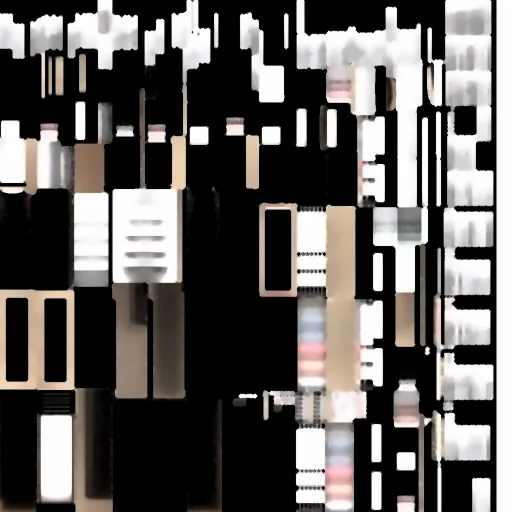
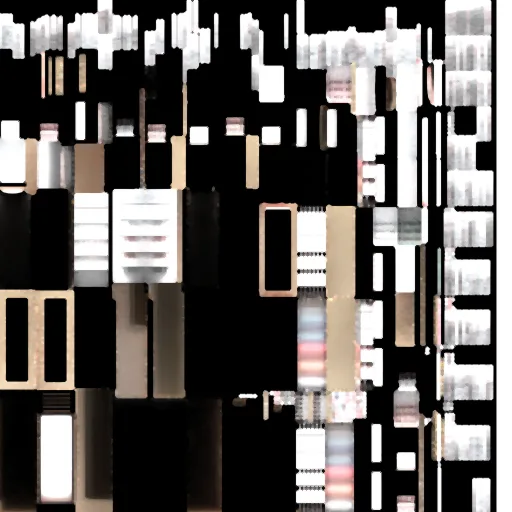
WIP: denoise OIDN nos lightmaps, embalagens sólidas, freezer com picolés e vista Sorvetes
Claude-Session: https://claude.ai/code/session_01CwP1brNtxaKT1mUQXiiAjA

diff --git a/src/scene/sala/ProjetoViewer.tsx b/src/scene/sala/ProjetoViewer.tsx
@@ -6,6 +6,7 @@ import { GLTFLoader } from "three/examples/jsm/loaders/GLTFLoader.js";
 import { MeshoptDecoder } from "three/examples/jsm/libs/meshopt_decoder.module.js";
 import { OrbitControls } from "three/examples/jsm/controls/OrbitControls.js";
 import { Reflector } from "three/examples/jsm/objects/Reflector.js";
+import { freezerPicoles } from "../Products";
 
 type V3 = [number, number, number];
 export type ProjetoPlan = {
@@ -20,6 +21,8 @@ export type ProjetoPlan = {
   backdrop?: string;
   /** fitas de LED visíveis (a luz que elas jogam já está no bake): segmento de a até b, cor quente ou fria */
   leds?: { a: V3; b: V3; cool?: boolean }[];
+  /** freezer horizontal para encher com os picolés Los Los do site */
+  freezer?: { x: [number, number]; z: [number, number]; y: number; rows: number; cols: number };
 };
 
 /** Fitas de LED acesas: barra fina brilhante + halo suave (soma de luz), como numa foto de loja à noite. */
@@ -257,11 +260,18 @@ export default function ProjetoViewer({ plan }: { plan: ProjetoPlan }) {
               if (done.has(mat)) continue;
               done.add(mat);
               const s = mat as THREE.MeshStandardMaterial;
-              // plástico das garrafas (água): translúcido mas visível, não some como vidro
+              // embalagens com PNG transparente (Milka, rótulos, logos): sólidas; só o fundo vazio do PNG some
+              if (s.map && s.transparent && !/vidro|glass|transparente|acrylic/i.test(s.name)) {
+                s.transparent = false;
+                s.opacity = 1;
+                s.alphaTest = 0.5;
+                s.depthWrite = true;
+              }
+              // plástico das garrafas (água): quase opaco, levemente azulado, com brilho
               if (/acrylic|^__auto_$/i.test(s.name)) {
-                s.color.set("#e6eef0");
+                s.color.set("#dfe9ee");
                 s.transparent = true;
-                s.opacity = 0.6;
+                s.opacity = 0.88;
                 s.roughness = 0.12;
                 s.metalness = 0;
                 s.envMapIntensity = 1.4;
@@ -291,6 +301,10 @@ export default function ProjetoViewer({ plan }: { plan: ProjetoPlan }) {
               // peças muito amassadas (sacos de carvão) se partem em centenas de pedacinhos no lightmap e saíam
               // riscadas: usam só a luz ambiente da própria loja
               if (/carv/i.test(s.name)) {
+                // a foto do saco não se encaixa no modelo amassado (ficava picotada): papel kraft liso
+                s.map = null;
+                s.color.set("#a8825a");
+                s.roughness = 0.85;
                 s.envMapIntensity = 1.1;
                 continue;
               }
@@ -309,6 +323,7 @@ export default function ProjetoViewer({ plan }: { plan: ProjetoPlan }) {
       scene.add(root);
 
       if (plan.leds) addLeds(scene, plan.leds);
+      if (plan.freezer) scene.add(await freezerPicoles(plan.freezer).catch(() => new THREE.Object3D()));
 
       if (plan.backdrop) {
         // lá fora: cilindro em volta da loja com a paisagem desfocada (como numa foto de interior)

diff --git a/src/scene/Products.tsx b/src/scene/Products.tsx
@@ -555,3 +555,45 @@ export function Products() {
 }
 
 const ZERO = new THREE.Matrix4().makeScale(0, 0, 0);
+
+/** Picolés Los Los (mesmos rótulos do site) deitados dentro de um freezer horizontal qualquer.
+ *  Usado na loja projetada das propostas (src/scene/sala). x: faixa da profundidade, z: do comprimento. */
+export async function freezerPicoles(f: { x: [number, number]; z: [number, number]; y: number; rows: number; cols: number }) {
+  const json = (await (await fetch(BASE + "produtos.json")).json()) as Record<string, number[]>;
+  const img = new Image();
+  img.decoding = "async";
+  img.src = BASE + "produtos.webp";
+  await img.decode();
+  const map = new THREE.Texture(img);
+  map.colorSpace = THREE.SRGBColorSpace;
+  map.anisotropy = 8;
+  map.needsUpdate = true;
+  const flavors = Object.keys(json).filter((k) => k.startsWith("picole_"));
+  const o = new THREE.Object3D();
+  let seed = 7;
+  const rnd = () => ((seed = (seed * 16807) % 2147483647) / 2147483647);
+  const tiles: number[] = [], mats: THREE.Matrix4[] = [];
+  const dx = (f.x[1] - f.x[0]) / f.rows, dz = (f.z[1] - f.z[0]) / f.cols;
+  let k = 0;
+  for (let col = 0; col < f.cols; col++)
+    for (let row = 0; row < f.rows; row++)
+      for (let side = 0; side < 2; side++) {
+        const uv = json[flavors[k++ % flavors.length]];
+        for (let layer = 0; layer < 3; layer++) {
+          // o picolé deitado ocupa 0,2 m a partir da posição, no sentido de −x
+          o.position.set(f.x[0] + dx * row + (dx + SHAPES.picole.h) / 2 + (rnd() - 0.5) * 0.01, f.y + layer * 0.028, f.z[0] + dz * (col + 0.5) + (side - 0.5) * dz * 0.5);
+          o.rotation.set(-Math.PI / 2 + 0.18 + (rnd() - 0.5) * 0.1, Math.PI / 2 + (rnd() - 0.5) * 0.12, 0, "YXZ");
+          o.updateMatrix();
+          mats.push(o.matrix.clone());
+          tiles.push(...uv);
+        }
+      }
+  const g = buildGeometry(SHAPES.picole);
+  g.setAttribute("aTile", new THREE.InstancedBufferAttribute(new Float32Array(tiles), 4));
+  g.setAttribute("aLit", new THREE.InstancedBufferAttribute(new Float32Array(mats.flatMap(() => [1, 1])), 2));
+  const mesh = new THREE.InstancedMesh(g, makeMaterial(map, true), mats.length);
+  mats.forEach((m, i) => mesh.setMatrixAt(i, m));
+  mesh.instanceMatrix.needsUpdate = true;
+  mesh.computeBoundingSphere();
+  return mesh;
+}

diff --git a/src/components/SalaSection.tsx b/src/components/SalaSection.tsx
@@ -25,6 +25,7 @@ const PLAN_V8K3: ProjetoPlan = {
   base: "/models/p/v8k3/",
   backdrop: "/images/p/janela.jpg",
   leds: LEDS,
+  freezer: { x: [0.12, 0.6], z: [2.62, 3.72], y: 0.62, rows: 2, cols: 7 },
   bounds: { x: [0.35, 5.0], z: [0.6, 5.35], h: 2.9 },
   floor: [[0, 0], [5.45, 0], [5.45, 5.7], [0, 5.7]],
   views: [
@@ -32,6 +33,7 @@ const PLAN_V8K3: ProjetoPlan = {
     { label: "Armário", position: [3.6, 1.55, 2.3], target: [3.6, 1.2, 0] },
     { label: "Geladeiras", position: [3.0, 1.55, 2.4], target: [0, 1.1, 1.5] },
     { label: "Gôndola", position: [1.3, 1.6, 4.6], target: [2.5, 0.8, 2.3] },
+    { label: "Sorvetes", position: [1.25, 1.75, 3.15], target: [0.35, 0.5, 3.15] },
     { label: "Totens", position: [1.4, 1.55, 3.4], target: [3.7, 0.75, 4.75] },
     { label: "Janela", position: [1.5, 1.6, 3.0], target: [5.3, 1.1, 2.6] },
   ],

diff --git a/scripts/blender/oidn_lightmaps.py b/scripts/blender/oidn_lightmaps.py
@@ -1,0 +1,73 @@
+"""
+Tira o granulado do bake com o denoiser da Intel (OIDN, o mesmo do Cycles), chamando a biblioteca que vem com o bpy
+(o compositor do Blender precisa de placa de vídeo; a biblioteca roda na CPU).
+Uso: python scripts/blender/oidn_lightmaps.py <pasta build>
+Lê <build>/lightmaps-raw/*.png (cópia sem filtro; criada a partir de lightmaps/ na primeira vez) e grava em lightmaps/.
+"""
+
+import ctypes
+import glob
+import os
+import shutil
+import sys
+
+import bpy  # noqa: F401 (só para achar a pasta das bibliotecas)
+import numpy as np
+from PIL import Image
+
+BUILD = sys.argv[1]
+src, raw = os.path.join(BUILD, "lightmaps"), os.path.join(BUILD, "lightmaps-raw")
+os.makedirs(raw, exist_ok=True)
+for f in os.listdir(src):
+    if f.endswith(".png") and not os.path.exists(os.path.join(raw, f)):
+        shutil.copy(os.path.join(src, f), os.path.join(raw, f))
+
+# bpy instalado pelo pip: as bibliotecas ficam em site-packages/bpy/lib
+libdir = next(d for d in (os.path.join(p, "bpy", "lib") for p in sys.path) if glob.glob(os.path.join(d, "libOpenImageDenoise.so*")))
+for dep in sorted(glob.glob(os.path.join(libdir, "libtbb*.so*"))):
+    try:
+        ctypes.CDLL(dep, mode=ctypes.RTLD_GLOBAL)
+    except OSError:
+        pass
+for core in glob.glob(os.path.join(libdir, "libOpenImageDenoise_core.so*")):
+    ctypes.CDLL(core, mode=ctypes.RTLD_GLOBAL)
+oidn = ctypes.CDLL(os.path.join(libdir, "libOpenImageDenoise.so.2"))
+P, I, C = ctypes.c_void_p, ctypes.c_int, ctypes.c_char_p
+oidn.oidnNewDevice.restype = P
+oidn.oidnNewDevice.argtypes = [I]
+oidn.oidnCommitDevice.argtypes = [P]
+oidn.oidnNewFilter.restype = P
+oidn.oidnNewFilter.argtypes = [P, C]
+oidn.oidnSetSharedFilterImage.argtypes = [P, C, P, I, ctypes.c_size_t, ctypes.c_size_t, ctypes.c_size_t, ctypes.c_size_t, ctypes.c_size_t]
+oidn.oidnSetFilterBool.argtypes = [P, C, ctypes.c_bool]
+oidn.oidnCommitFilter.argtypes = [P]
+oidn.oidnExecuteFilter.argtypes = [P]
+oidn.oidnGetDeviceError.restype = I
+oidn.oidnGetDeviceError.argtypes = [P, ctypes.POINTER(C)]
+oidn.oidnReleaseFilter.argtypes = [P]
+
+dev = oidn.oidnNewDevice(1)  # CPU
+oidn.oidnCommitDevice(dev)
+FLOAT3 = 3  # OIDN_FORMAT_FLOAT3
+
+for f in sorted(os.listdir(raw)):
+    if not f.endswith(".png"):
+        continue
+    img = np.asarray(Image.open(os.path.join(raw, f)).convert("RGB"), dtype=np.float32) / 255.0
+    lin = np.ascontiguousarray(img ** 2.2)  # a imagem guarda a luz em gama 2.2; o OIDN quer luz linear (HDR)
+    out = np.empty_like(lin)
+    h, w = lin.shape[:2]
+    flt = oidn.oidnNewFilter(dev, b"RT")
+    oidn.oidnSetSharedFilterImage(flt, b"color", lin.ctypes.data, FLOAT3, w, h, 0, 0, 0)
+    oidn.oidnSetSharedFilterImage(flt, b"output", out.ctypes.data, FLOAT3, w, h, 0, 0, 0)
+    oidn.oidnSetFilterBool(flt, b"hdr", True)
+    oidn.oidnCommitFilter(flt)
+    oidn.oidnExecuteFilter(flt)
+    msg = C()
+    if oidn.oidnGetDeviceError(dev, ctypes.byref(msg)):
+        print("erro OIDN", f, msg.value, flush=True)
+        continue
+    oidn.oidnReleaseFilter(flt)
+    enc = np.clip(out, 0, 1) ** (1 / 2.2)
+    Image.fromarray((enc * 255 + 0.5).astype(np.uint8)).save(os.path.join(src, f))
+    print("oidn", f, (w, h), flush=True)
